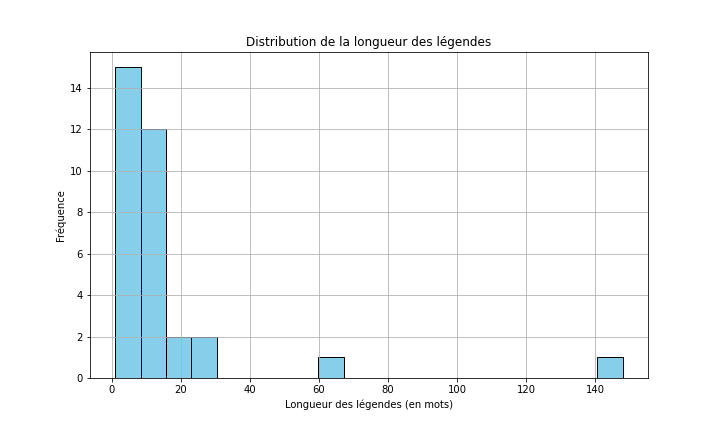
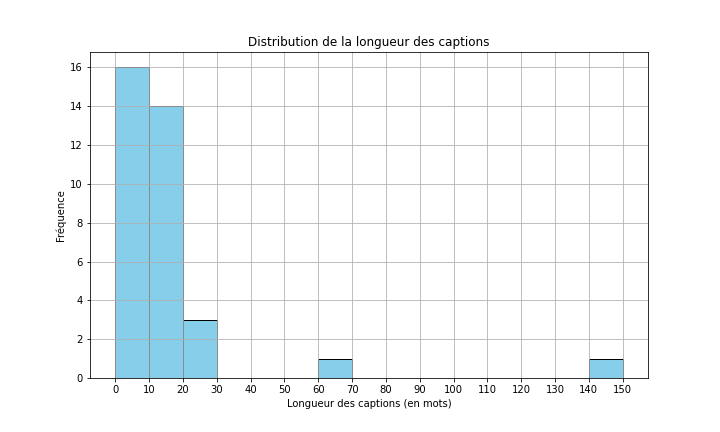
ajout statistiques

diff --git a/scripts/plots/Statistiques.py b/scripts/plots/Statistiques.py
@@ -1,0 +1,90 @@
+import pandas as pd
+import matplotlib.pyplot as plt
+from collections import Counter
+import spacy
+
+# Chargement du modèle linguistique SpaCy pour l'anglais
+nlp = spacy.load('en_core_web_sm')
+
+# Chargement des données à partir du fichier CSV
+data_path = '../../data/clean/animal_images_cleaned.csv'
+data = pd.read_csv(data_path)
+
+# Analyse linguistique pour extraire les fréquences des mots en excluant les stopwords
+def process_captions(data):
+    all_words = []
+    for doc in nlp.pipe(data['caption'].astype(str)):
+        all_words.extend([token.text.lower() for token in doc if not token.is_stop and token.is_alpha])
+    return all_words
+
+all_words = process_captions(data)
+word_freq = Counter(all_words)
+
+# Statistiques descriptives
+def compute_statistics(data, word_freq):
+    # Longueur moyenne des légendes en mots
+    data['caption_length'] = data['caption'].apply(lambda x: len(x.split()))
+    avg_length = data['caption_length'].mean()
+
+    # Diversité lexicale
+    lex_div = len(set(all_words)) / len(all_words) if all_words else 0
+
+    # Mots les plus fréquents
+    common_words = word_freq.most_common(10)
+
+    return avg_length, lex_div, common_words
+
+avg_length, diversity, common_words = compute_statistics(data, word_freq)
+
+# Affichage des résultats calculés
+print(f"Moyenne de la longueur des captions: {avg_length:.2f} mots")
+print(f"Diversité lexicale: {diversity:.2%}")
+print(f"Mots les plus fréquents: {common_words}")
+
+# Visualisation de la distribution de la longueur des légendes
+plt.figure(figsize=(10, 6))
+plt.hist(data['caption_length'], bins=range(0, 160, 10), color='skyblue', edgecolor='black')
+plt.title('Distribution de la longueur des captions')
+plt.xlabel('Longueur des captions (en mots)')
+plt.ylabel('Fréquence')
+plt.xticks(range(0, 160, 10))
+plt.grid(True)
+plt.savefig('../../plots/caption_length_distribution.png')
+plt.show()
+
+# Visualisation de la loi de Zipf
+freqs = sorted(word_freq.values(), reverse=True)
+plt.figure(figsize=(10, 6))
+plt.plot(range(len(freqs)), freqs, linestyle='-', marker='')
+plt.title('Loi de Zipf - Distribution des fréquences des mots')
+plt.xlabel('Rang du mot')
+plt.ylabel('Fréquence')
+plt.yscale('log')
+plt.xscale('log')
+plt.grid(True)
+plt.savefig('../../plots/zipf_distribution_improved.png')
+plt.show()
+
+# Visualisation des mots les plus fréquents
+words, counts = zip(*word_freq.most_common(50))
+plt.figure(figsize=(12, 8))
+plt.barh(range(len(words)), counts, color='skyblue')
+plt.yticks(range(len(words)), words)
+plt.gca().invert_yaxis()
+plt.title('Top 50 des mots les plus fréquents')
+plt.xlabel('Fréquence')
+plot_path = '../../plots/word_frequency_top_50.png'
+plt.savefig(plot_path)
+plt.show()
+
+# Visualisation de la diversité lexicale avec un diagramme circulaire
+labels = 'Diversité lexicale', 'Autres'
+sizes = [diversity, 1 - diversity]
+colors = ['skyblue', 'lightgrey']
+explode = (0.1, 0)
+plt.figure(figsize=(6, 6))
+plt.pie(sizes, explode=explode, labels=labels, colors=colors,
+        autopct='%1.1f%%', shadow=True, startangle=140)
+plt.title('Diversité lexicale')
+plt.savefig('../../plots/lexical_diversity.png')
+plt.show()
